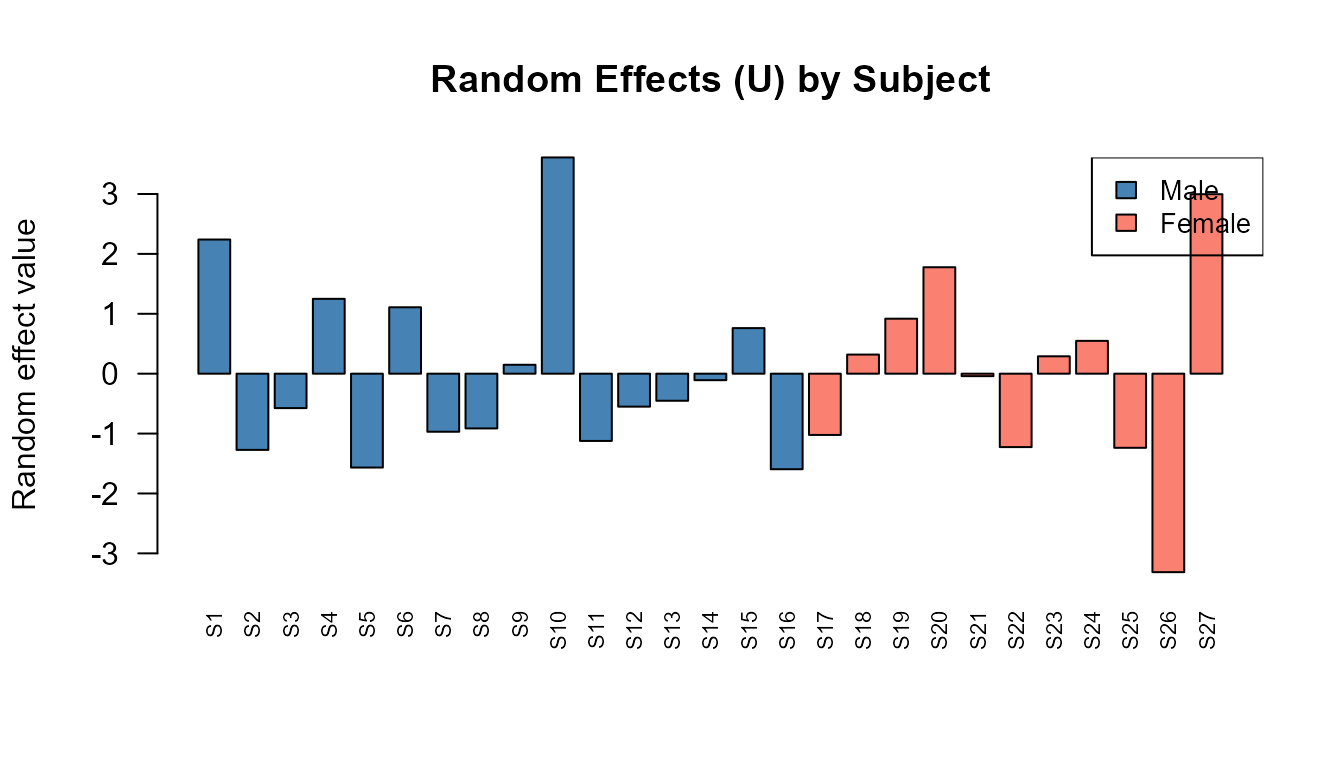
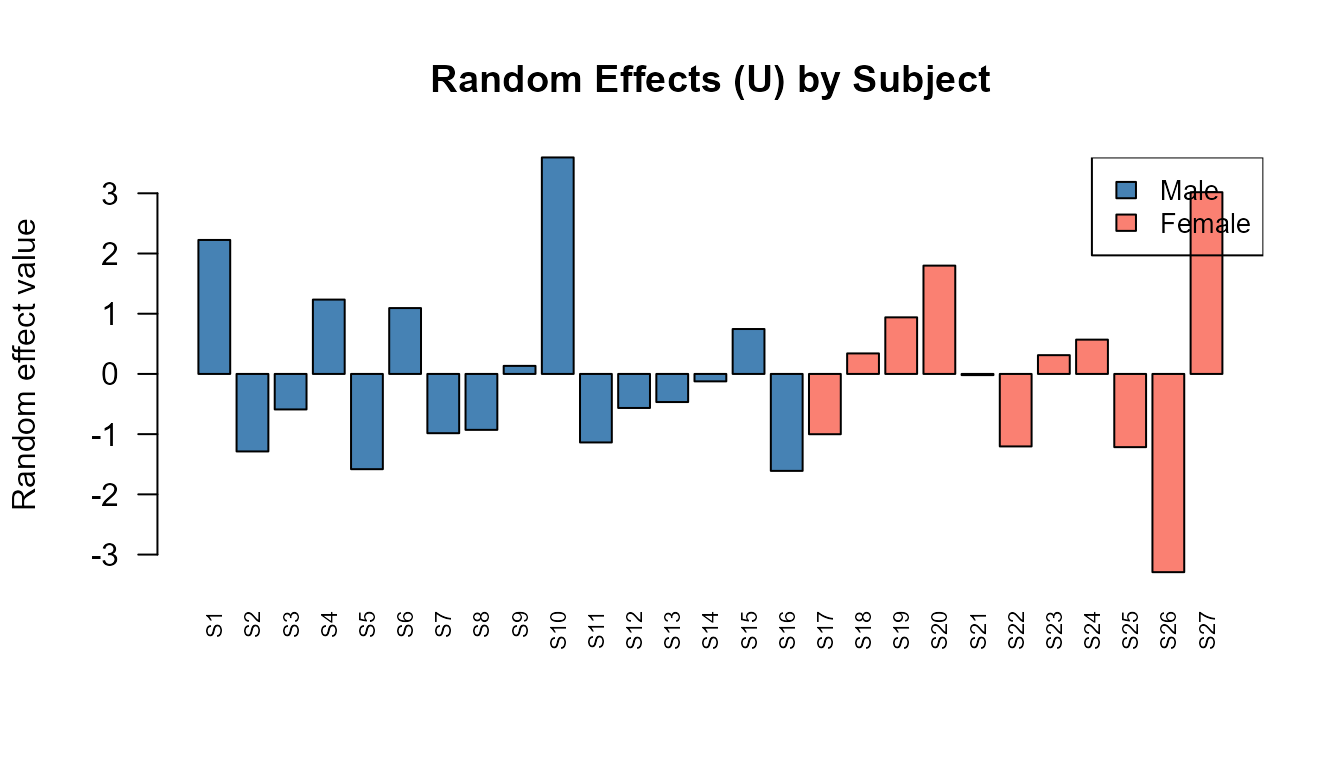
Remove explicit epsilon from NMF-RE vignette, use default

diff --git a/docs/articles/nmf-re-with-nmfkc.html b/docs/articles/nmf-re-with-nmfkc.html
@@ -273,7 +273,7 @@ was updated freely (<code>TRUE</code> = unconstrained).</li>
 Coefficient.</li>
 </ul>
 <div class="sourceCode" id="cb4"><pre class="downlit sourceCode r">
-<code class="sourceCode R"><span><span class="va">scan_result</span> <span class="op">&lt;-</span> <span class="fu"><a href="../reference/nmfre.dfU.scan.html">nmfre.dfU.scan</a></span><span class="op">(</span><span class="fl">1</span><span class="op">:</span><span class="fl">10</span><span class="op">/</span><span class="fl">10</span>, <span class="va">Y</span>, <span class="va">A</span>, Q <span class="op">=</span> <span class="fl">1</span>, epsilon <span class="op">=</span> <span class="fl">1e-08</span><span class="op">)</span></span>
+<code class="sourceCode R"><span><span class="va">scan_result</span> <span class="op">&lt;-</span> <span class="fu"><a href="../reference/nmfre.dfU.scan.html">nmfre.dfU.scan</a></span><span class="op">(</span><span class="fl">1</span><span class="op">:</span><span class="fl">10</span><span class="op">/</span><span class="fl">10</span>, <span class="va">Y</span>, <span class="va">A</span>, Q <span class="op">=</span> <span class="fl">1</span><span class="op">)</span></span>
 <span><span class="va">scan_result</span></span>
 <span><span class="co">#&gt;    rate dfU.cap  dfU safeguard   hit converged  tau2 sigma2    ICC</span></span>
 <span><span class="co">#&gt; 1   0.1     2.7 2.70     FALSE  TRUE      TRUE 0.443      1 0.0270</span></span>
@@ -312,7 +312,7 @@ the model with rank
 (a single latent trend). The <code>prefix</code> argument labels the
 basis.</p>
 <div class="sourceCode" id="cb5"><pre class="downlit sourceCode r">
-<code class="sourceCode R"><span><span class="va">res</span> <span class="op">&lt;-</span> <span class="fu"><a href="../reference/nmfre.html">nmfre</a></span><span class="op">(</span><span class="va">Y</span>, <span class="va">A</span>, Q <span class="op">=</span> <span class="fl">1</span>, dfU.cap.rate <span class="op">=</span> <span class="fl">0.2</span>, epsilon <span class="op">=</span> <span class="fl">1e-08</span>, prefix <span class="op">=</span> <span class="st">"Trend"</span><span class="op">)</span></span></code></pre></div>
+<code class="sourceCode R"><span><span class="va">res</span> <span class="op">&lt;-</span> <span class="fu"><a href="../reference/nmfre.html">nmfre</a></span><span class="op">(</span><span class="va">Y</span>, <span class="va">A</span>, Q <span class="op">=</span> <span class="fl">1</span>, dfU.cap.rate <span class="op">=</span> <span class="fl">0.2</span>, prefix <span class="op">=</span> <span class="st">"Trend"</span><span class="op">)</span></span></code></pre></div>
 <div class="section level3">
 <h3 id="model-summary">3.1 Model Summary<a class="anchor" aria-label="anchor" href="#model-summary"></a>
 </h3>
@@ -321,7 +321,7 @@ and the coefficient table with significance stars.</p>
 <div class="sourceCode" id="cb6"><pre class="downlit sourceCode r">
 <code class="sourceCode R"><span><span class="fu"><a href="https://rdrr.io/pkg/urca/man/summary-methods.html" class="external-link">summary</a></span><span class="op">(</span><span class="va">res</span><span class="op">)</span></span>
 <span><span class="co">#&gt; NMF-RE: Y(4,27) = X(4,1) [C(1,2) A + U(1,27)]</span></span>
-<span><span class="co">#&gt; Iterations: 2 (converged, epsilon = 1e-08)</span></span>
+<span><span class="co">#&gt; Iterations: 2 (converged, epsilon = 1e-05)</span></span>
 <span><span class="co">#&gt; R-squared: 0.5654 (XB+blup), 0.4167 (XB)</span></span>
 <span><span class="co">#&gt; </span></span>
 <span><span class="co">#&gt; Variance components:</span></span>
@@ -333,8 +333,8 @@ and the coefficient table with significance stars.</p>
 <span><span class="co">#&gt; </span></span>
 <span><span class="co">#&gt; Coefficients:</span></span>
 <span><span class="co">#&gt;                   Estimate Std. Error (Boot) z value   Pr(&gt;z) </span></span>
-<span><span class="co">#&gt; intercept:Trend1    90.502      2.471  2.450   36.62   &lt;2e-16 ***</span></span>
-<span><span class="co">#&gt;      male:Trend1     9.428      3.056  2.975    3.09 0.001017 **</span></span>
+<span><span class="co">#&gt; intercept:Trend1    90.393      2.471  2.452   36.58   &lt;2e-16 ***</span></span>
+<span><span class="co">#&gt;      male:Trend1     9.606      3.056  2.977    3.14 0.0008356 ***</span></span>
 <span><span class="co">#&gt; ---</span></span>
 <span><span class="co">#&gt; Signif. codes:  0 '***' 0.001 '**' 0.01 '*' 0.05 '.' 0.1 ' ' 1</span></span></code></pre></div>
 </div>
@@ -483,7 +483,7 @@ maps covariates to latent scores:</p>
 <span><span class="co">#&gt; Coefficient matrix (Theta):</span></span>
 <span><span class="fu"><a href="https://rdrr.io/r/base/print.html" class="external-link">print</a></span><span class="op">(</span><span class="fu"><a href="https://rdrr.io/r/base/Round.html" class="external-link">round</a></span><span class="op">(</span><span class="va">res</span><span class="op">$</span><span class="va">C</span>, <span class="fl">4</span><span class="op">)</span><span class="op">)</span></span>
 <span><span class="co">#&gt;        intercept   male</span></span>
-<span><span class="co">#&gt; Trend1    90.502 9.4285</span></span></code></pre></div>
+<span><span class="co">#&gt; Trend1   90.3934 9.6059</span></span></code></pre></div>
 <ul>
 <li>
 <code>intercept</code>: Baseline level of the latent trend for
@@ -541,9 +541,9 @@ slower growth.</p>
 <div class="sourceCode" id="cb13"><pre class="downlit sourceCode r">
 <code class="sourceCode R"><span><span class="va">residuals</span> <span class="op">&lt;-</span> <span class="va">Y</span> <span class="op">-</span> <span class="va">res</span><span class="op">$</span><span class="va">XB.blup</span></span>
 <span><span class="fu"><a href="https://rdrr.io/r/base/cat.html" class="external-link">cat</a></span><span class="op">(</span><span class="st">"Mean absolute residual (BLUP):"</span>, <span class="fu"><a href="https://rdrr.io/r/base/Round.html" class="external-link">round</a></span><span class="op">(</span><span class="fu"><a href="https://rdrr.io/r/base/mean.html" class="external-link">mean</a></span><span class="op">(</span><span class="fu"><a href="https://rdrr.io/r/base/MathFun.html" class="external-link">abs</a></span><span class="op">(</span><span class="va">residuals</span><span class="op">)</span><span class="op">)</span>, <span class="fl">4</span><span class="op">)</span>, <span class="st">"\n"</span><span class="op">)</span></span>
-<span><span class="co">#&gt; Mean absolute residual (BLUP): 1.5105</span></span>
+<span><span class="co">#&gt; Mean absolute residual (BLUP): 1.5118</span></span>
 <span><span class="fu"><a href="https://rdrr.io/r/base/cat.html" class="external-link">cat</a></span><span class="op">(</span><span class="st">"Mean absolute residual (fixed):"</span>, <span class="fu"><a href="https://rdrr.io/r/base/Round.html" class="external-link">round</a></span><span class="op">(</span><span class="fu"><a href="https://rdrr.io/r/base/mean.html" class="external-link">mean</a></span><span class="op">(</span><span class="fu"><a href="https://rdrr.io/r/base/MathFun.html" class="external-link">abs</a></span><span class="op">(</span><span class="va">Y</span> <span class="op">-</span> <span class="va">res</span><span class="op">$</span><span class="va">XB</span><span class="op">)</span><span class="op">)</span>, <span class="fl">4</span><span class="op">)</span>, <span class="st">"\n"</span><span class="op">)</span></span>
-<span><span class="co">#&gt; Mean absolute residual (fixed): 1.7589</span></span>
+<span><span class="co">#&gt; Mean absolute residual (fixed): 1.7612</span></span>
 <span></span>
 <span><span class="co"># Fitted vs Observed</span></span>
 <span><span class="fu"><a href="https://rdrr.io/r/base/plot.html" class="external-link">plot</a></span><span class="op">(</span><span class="fu"><a href="https://rdrr.io/r/base/vector.html" class="external-link">as.vector</a></span><span class="op">(</span><span class="va">Y</span><span class="op">)</span>, <span class="fu"><a href="https://rdrr.io/r/base/vector.html" class="external-link">as.vector</a></span><span class="op">(</span><span class="va">res</span><span class="op">$</span><span class="va">XB.blup</span><span class="op">)</span>,</span>
@@ -561,13 +561,13 @@ slower growth.</p>
 standard NMF covariate model (no random effects).</p>
 <div class="sourceCode" id="cb14"><pre class="downlit sourceCode r">
 <code class="sourceCode R"><span><span class="co"># Standard NMF with covariates (no random effects)</span></span>
-<span><span class="va">res_fixed</span> <span class="op">&lt;-</span> <span class="fu"><a href="../reference/nmfkc.html">nmfkc</a></span><span class="op">(</span><span class="va">Y</span>, A <span class="op">=</span> <span class="va">A</span>, Q <span class="op">=</span> <span class="fl">1</span>, epsilon <span class="op">=</span> <span class="fl">1e-08</span><span class="op">)</span></span>
+<span><span class="va">res_fixed</span> <span class="op">&lt;-</span> <span class="fu"><a href="../reference/nmfkc.html">nmfkc</a></span><span class="op">(</span><span class="va">Y</span>, A <span class="op">=</span> <span class="va">A</span>, Q <span class="op">=</span> <span class="fl">1</span><span class="op">)</span></span>
 <span><span class="co">#&gt; Y(4,27)~X(4,1)C(1,2)A(2,27)=XB(1,27)...0sec</span></span>
 <span></span>
 <span><span class="fu"><a href="https://rdrr.io/r/base/cat.html" class="external-link">cat</a></span><span class="op">(</span><span class="st">"=== Standard NMF (fixed effects only) ===\n"</span><span class="op">)</span></span>
 <span><span class="co">#&gt; === Standard NMF (fixed effects only) ===</span></span>
 <span><span class="fu"><a href="https://rdrr.io/r/base/cat.html" class="external-link">cat</a></span><span class="op">(</span><span class="st">"R-squared:"</span>, <span class="fu"><a href="https://rdrr.io/r/base/Round.html" class="external-link">round</a></span><span class="op">(</span><span class="fl">1</span> <span class="op">-</span> <span class="fu"><a href="https://rdrr.io/r/base/sum.html" class="external-link">sum</a></span><span class="op">(</span><span class="op">(</span><span class="va">Y</span> <span class="op">-</span> <span class="va">res_fixed</span><span class="op">$</span><span class="va">XB</span><span class="op">)</span><span class="op">^</span><span class="fl">2</span><span class="op">)</span> <span class="op">/</span> <span class="fu"><a href="https://rdrr.io/r/base/sum.html" class="external-link">sum</a></span><span class="op">(</span><span class="op">(</span><span class="va">Y</span> <span class="op">-</span> <span class="fu"><a href="https://rdrr.io/r/base/mean.html" class="external-link">mean</a></span><span class="op">(</span><span class="va">Y</span><span class="op">)</span><span class="op">)</span><span class="op">^</span><span class="fl">2</span><span class="op">)</span>, <span class="fl">4</span><span class="op">)</span>, <span class="st">"\n\n"</span><span class="op">)</span></span>
-<span><span class="co">#&gt; R-squared: 0.4167</span></span>
+<span><span class="co">#&gt; R-squared: 0.4161</span></span>
 <span></span>
 <span><span class="fu"><a href="https://rdrr.io/r/base/cat.html" class="external-link">cat</a></span><span class="op">(</span><span class="st">"=== NMF-RE (fixed + random effects) ===\n"</span><span class="op">)</span></span>
 <span><span class="co">#&gt; === NMF-RE (fixed + random effects) ===</span></span>

diff --git a/docs/articles/timeseries-with-nmfkc.html b/docs/articles/timeseries-with-nmfkc.html
@@ -187,16 +187,16 @@ dimension.</p>
 <span><span class="co">#&gt; degree=2...0.7sec</span></span>
 <span><span class="co">#&gt; degree=3...0.7sec</span></span>
 <span><span class="co">#&gt; degree=4...0.7sec</span></span>
-<span><span class="co">#&gt; degree=5...0.8sec</span></span>
-<span><span class="co">#&gt; degree=6...0.8sec</span></span>
-<span><span class="co">#&gt; degree=7...0.7sec</span></span>
+<span><span class="co">#&gt; degree=5...0.7sec</span></span>
+<span><span class="co">#&gt; degree=6...0.7sec</span></span>
+<span><span class="co">#&gt; degree=7...0.8sec</span></span>
 <span><span class="co">#&gt; degree=8...0.8sec</span></span>
-<span><span class="co">#&gt; degree=9...0.9sec</span></span>
+<span><span class="co">#&gt; degree=9...1sec</span></span>
 <span><span class="co">#&gt; degree=10...0.9sec</span></span>
 <span><span class="co">#&gt; degree=11...0.9sec</span></span>
 <span><span class="co">#&gt; degree=12...0.8sec</span></span>
-<span><span class="co">#&gt; degree=13...0.9sec</span></span>
-<span><span class="co">#&gt; degree=14...1.1sec</span></span></code></pre></div>
+<span><span class="co">#&gt; degree=13...1sec</span></span>
+<span><span class="co">#&gt; degree=14...1sec</span></span></code></pre></div>
 <p><img src="timeseries-with-nmfkc_files/figure-html/air-degree-cv-1.png" width="672"></p>
 <div class="sourceCode" id="cb4"><pre class="downlit sourceCode r">
 <code class="sourceCode R"><span></span>

diff --git a/docs/articles/classification-with-nmfkc.html b/docs/articles/classification-with-nmfkc.html
@@ -341,7 +341,7 @@ directly for a quick demonstration.</p>
 <span><span class="va">A_penguins</span> <span class="op">&lt;-</span> <span class="fu"><a href="../reference/nmfkc.kernel.html">nmfkc.kernel</a></span><span class="op">(</span><span class="va">U_penguins</span>, beta <span class="op">=</span> <span class="va">best_beta_penguins</span><span class="op">)</span></span>
 <span><span class="va">res_penguins</span> <span class="op">&lt;-</span> <span class="fu"><a href="../reference/nmfkc.html">nmfkc</a></span><span class="op">(</span>Y <span class="op">=</span> <span class="va">Y_penguins</span>, A <span class="op">=</span> <span class="va">A_penguins</span>, rank <span class="op">=</span> <span class="va">rank_penguins</span>, </span>
 <span>                      seed <span class="op">=</span> <span class="fl">123</span>, prefix <span class="op">=</span> <span class="st">"Class"</span><span class="op">)</span></span>
-<span><span class="co">#&gt; Y(3,333)~X(3,3)C(3,333)A(333,333)=XB(3,333)...0.1sec</span></span></code></pre></div>
+<span><span class="co">#&gt; Y(3,333)~X(3,3)C(3,333)A(333,333)=XB(3,333)...0.2sec</span></span></code></pre></div>
 </div>
 <div class="section level3">
 <h3 id="visualizing-soft-classification">3. Visualizing “Soft” Classification<a class="anchor" aria-label="anchor" href="#visualizing-soft-classification"></a>
